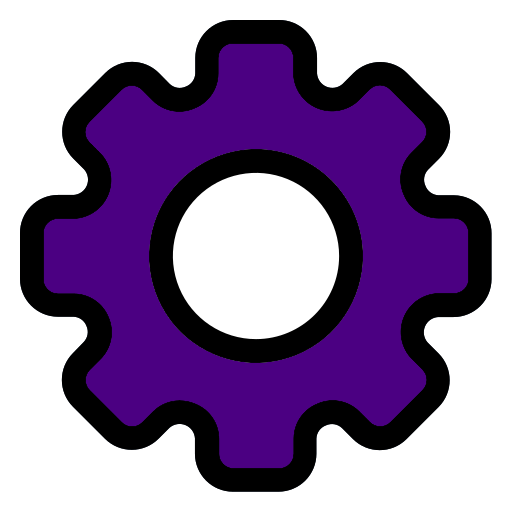
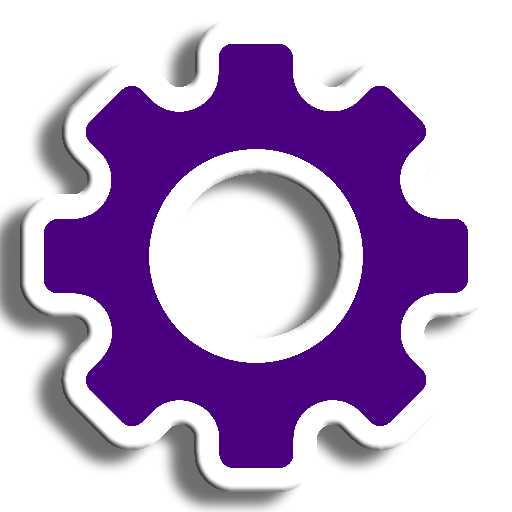
x

diff --git a/src/chattcp/ClienteGrupo.java b/src/chattcp/ClienteGrupo.java
@@ -76,7 +76,7 @@ public class ClienteGrupo extends JFrame implements Runnable {
         groupLabel.setForeground(PRIMARY_COLOR);
 
         // Añadir botón de configuración
-        btnConfig = new JButton(new ImageIcon(new ImageIcon("chatTCP/res/config_icon.png").getImage().getScaledInstance(32, 32, Image.SCALE_SMOOTH)));        btnConfig.setContentAreaFilled(false);
+        btnConfig = new JButton(new ImageIcon(new ImageIcon("chatTCP/res/config_icon_2.png").getImage().getScaledInstance(48, 48, Image.SCALE_SMOOTH)));        btnConfig.setContentAreaFilled(false);
         btnConfig.setBorderPainted(false);
         btnConfig.setFocusPainted(false);
         btnConfig.setCursor(new Cursor(Cursor.HAND_CURSOR));
